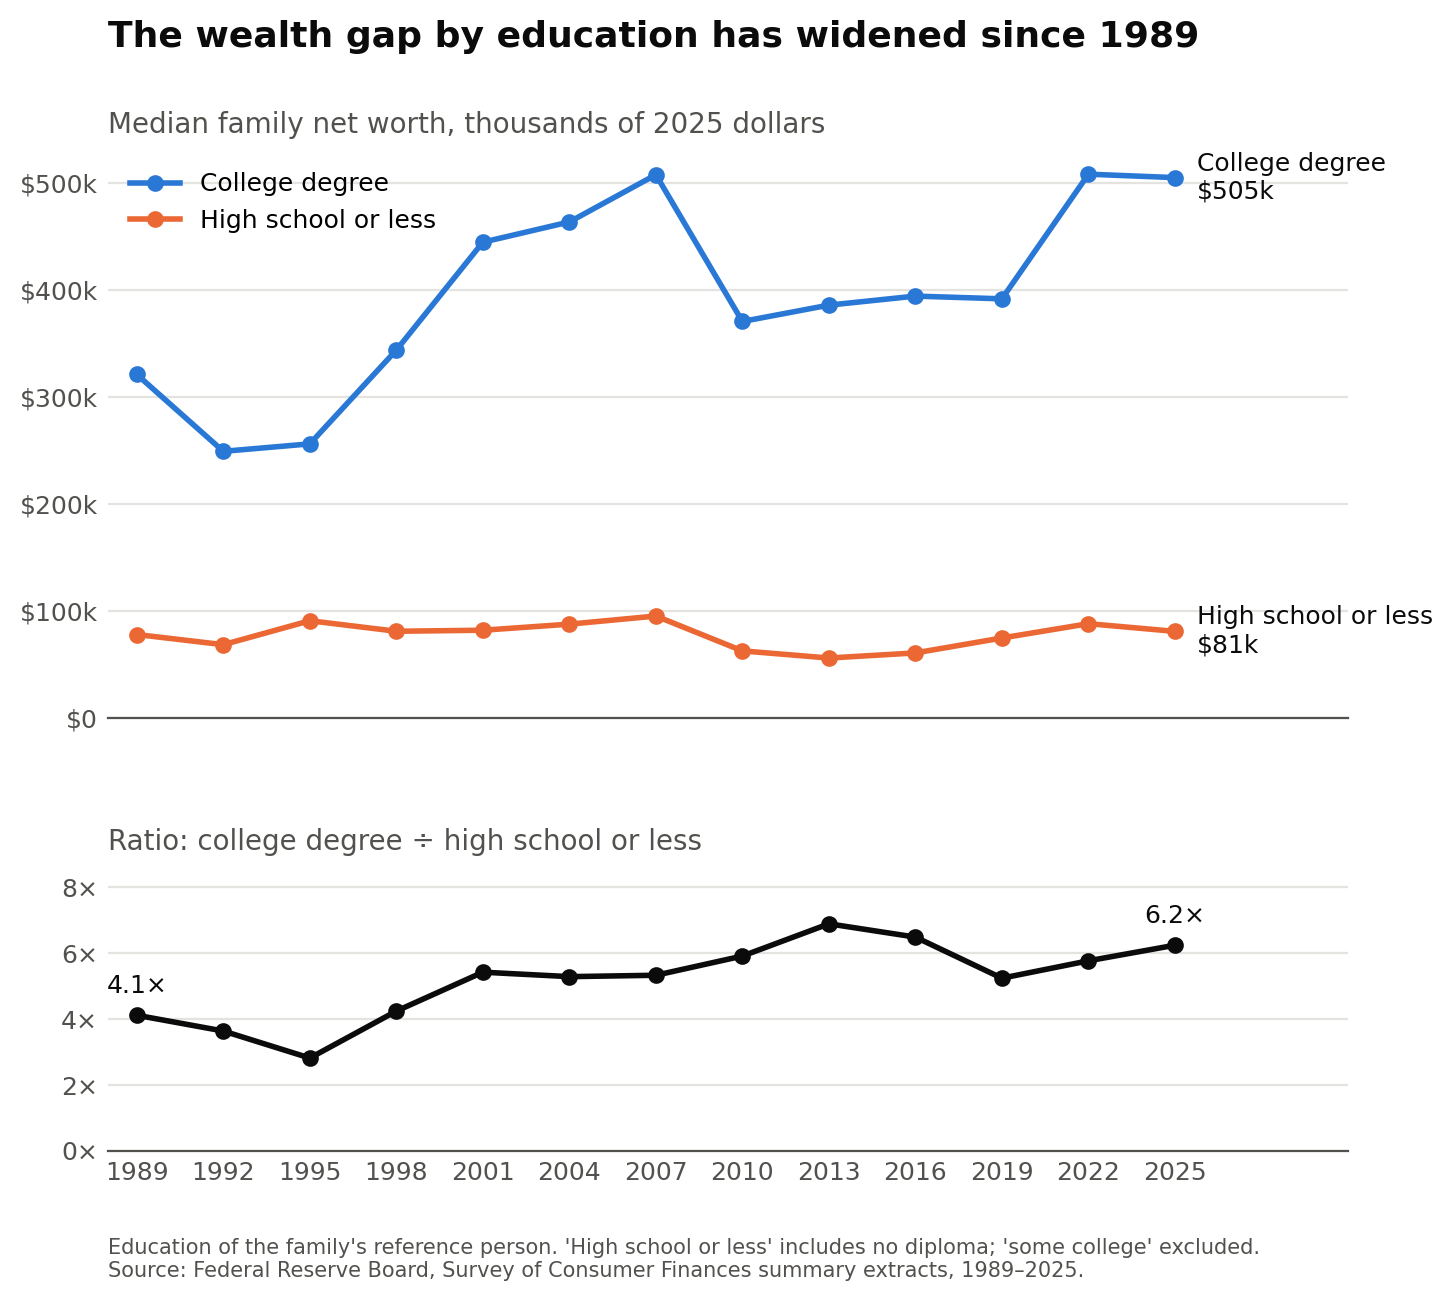
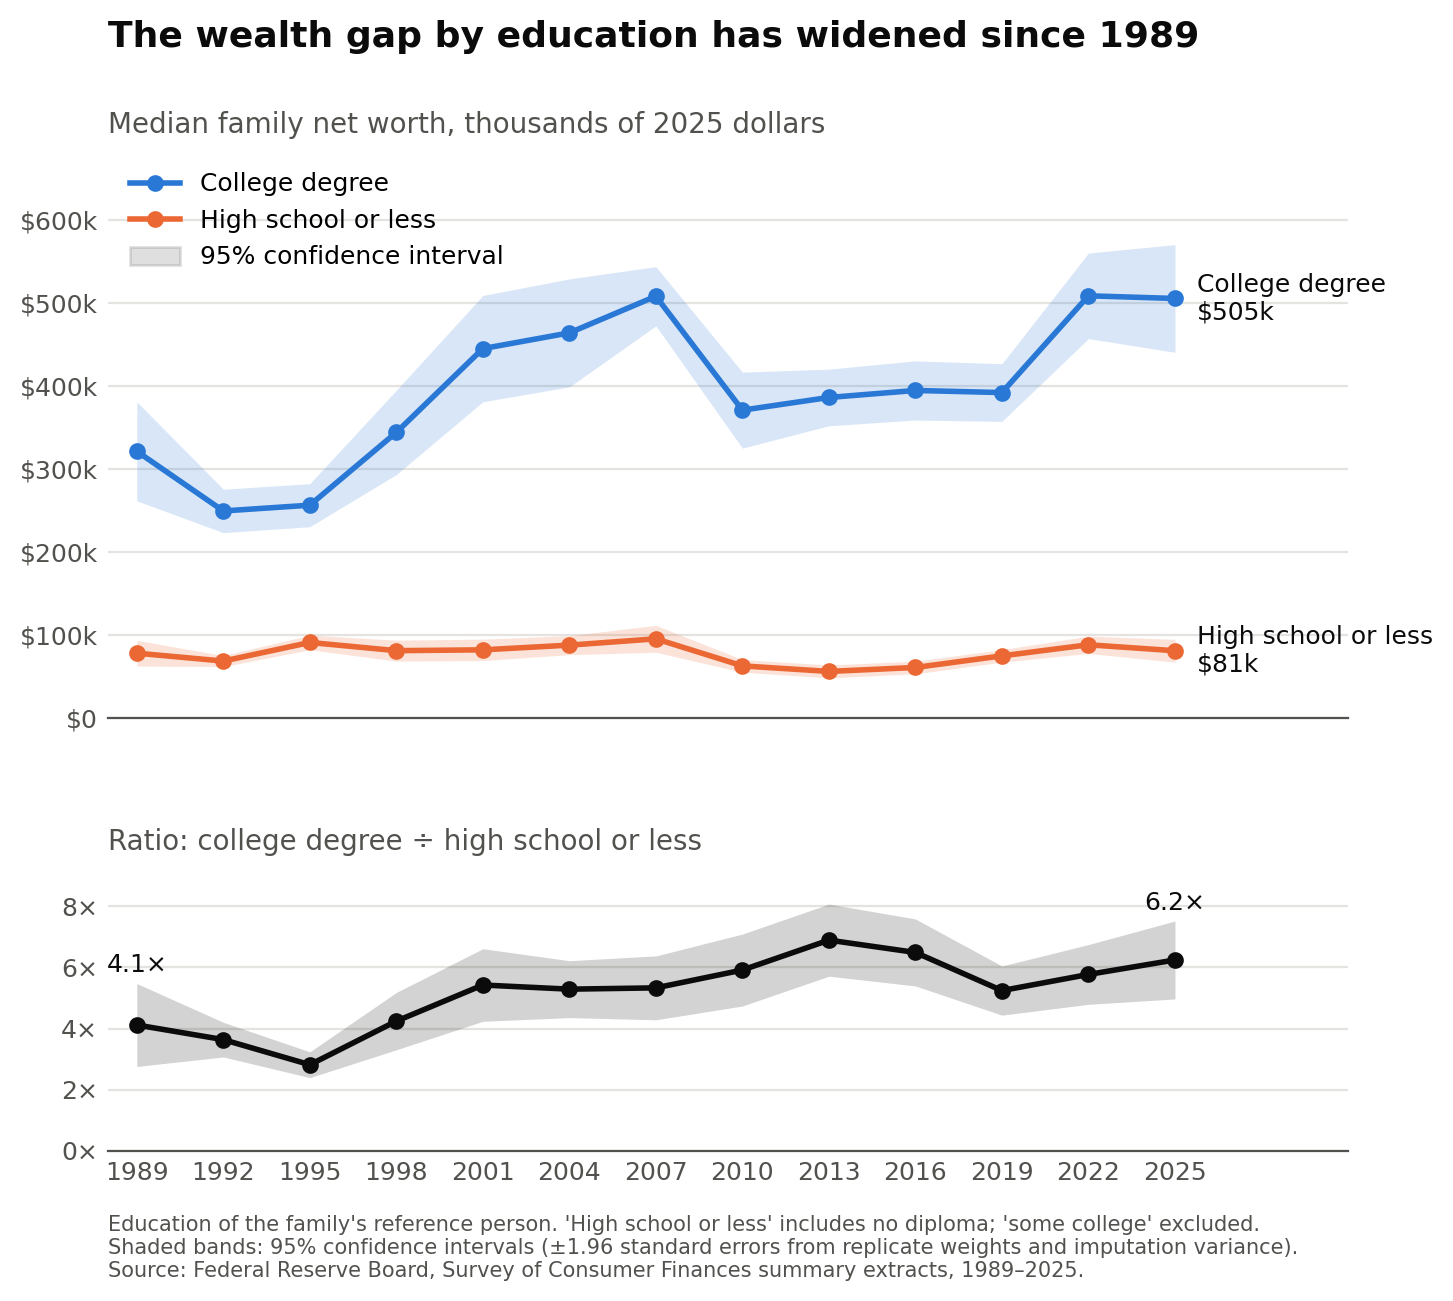
Add 95% confidence intervals using SCF replicate weights
scf_se.py ports the SCF codebook's MEANIT procedure: standard errors
combine imputation variance across the five implicates with sampling
variance from the 999 bootstrap replicate weights. get_data.py now
downloads each year's replicate-weight file and writes SEs for the group
medians and means plus a new networth_ratio.csv. plot.py shades 95%
intervals on both panels.

Point estimates are unchanged; 2022 and 2025 college-median SEs are
within 2% of the Fed's published standard errors.

diff --git a/get_data.py b/get_data.py
@@ -1,20 +1,23 @@
-"""Download the Survey of Consumer Finances summary extracts and compute median
-net worth by education of the family's reference person, 1989-2025.
+"""Download the Survey of Consumer Finances summary extracts and replicate
+weights, and compute median net worth by education of the family's reference
+person, with standard errors, 1989-2025.
 
-Source: Federal Reserve Board, SCF summary extract public data
-(https://www.federalreserve.gov/econres/scfindex.htm). As of the 2025 release,
-every year's extract is inflation-adjusted to 2025 dollars.
+Source: Federal Reserve Board, SCF summary extract public data and replicate
+weight files (https://www.federalreserve.gov/econres/scfindex.htm). As of the
+2025 release, every year's extract is inflation-adjusted to 2025 dollars.
 
 Groups (EDCL, harmonized across the 2016 change to the education question):
     college         EDCL == 4   bachelor's degree or higher
     hs_or_less      EDCL <= 2   no diploma, or high school diploma / GED
 "Some college" (EDCL == 3) is excluded.
 
-Each household appears five times (multiple imputation); WGT already divides
-the weight across implicates, so statistics pool all rows. This reproduces the
-medians in the Fed's historical Table 4.
+Each household appears five times (multiple imputation); point estimates pool
+all rows with WGT, which reproduces the medians in the Fed's historical Table 4.
+Standard errors combine imputation and sampling variance (see scf_se.py).
 
-Writes data/networth_by_education.csv.
+Downloads ~450 MB into data/raw/ on first run. Writes:
+    data/networth_by_education.csv   median/mean (+ SE) and share, by year and group
+    data/networth_ratio.csv          college / hs_or_less median ratio (+ SE), by year
 """
 
 import io
@@ -22,13 +25,15 @@ import urllib.request
 import zipfile
 from pathlib import Path
 
-import numpy as np
 import pandas as pd
 
+from scf_se import estimate_with_se, replicate_weights, weighted_mean, weighted_median
+
 YEARS = [1989, 1992, 1995, 1998, 2001, 2004, 2007, 2010, 2013, 2016, 2019, 2022, 2025]
-URL = "https://www.federalreserve.gov/econres/files/scfp{year}s.zip"
+BASE_URL = "https://www.federalreserve.gov/econres/files/"
 RAW_DIR = Path("data/raw")
-OUT = Path("data/networth_by_education.csv")
+OUT_GROUPS = Path("data/networth_by_education.csv")
+OUT_RATIO = Path("data/networth_ratio.csv")
 
 GROUPS = {
     "college": lambda edcl: edcl == 4,
@@ -36,54 +41,85 @@ GROUPS = {
 }
 
 
-def download(year):
-    path = RAW_DIR / f"scfp{year}s.zip"
+def extract_name(year):
+    return f"scfp{year}s.zip"
+
+
+def replicate_name(year):
+    # Surveys before 2001 use two-digit years in the replicate file name.
+    return f"scf{year if year >= 2001 else str(year)[2:]}rw1s.zip"
+
+
+def download(name):
+    path = RAW_DIR / name
     if not path.exists():
-        print(f"downloading {path.name}")
-        req = urllib.request.Request(URL.format(year=year), headers={"User-Agent": "Mozilla/5.0"})
+        print(f"downloading {name}")
+        req = urllib.request.Request(BASE_URL + name, headers={"User-Agent": "Mozilla/5.0"})
         with urllib.request.urlopen(req) as resp:
             path.write_bytes(resp.read())
     return path
 
 
-def read_extract(path):
+def read_dta(path):
     with zipfile.ZipFile(path) as zf:
         (name,) = [n for n in zf.namelist() if n.lower().endswith(".dta")]
         df = pd.read_stata(io.BytesIO(zf.read(name)), convert_categoricals=False)
     df.columns = df.columns.str.lower()
-    return df[["wgt", "edcl", "networth"]]
+    return df
 
 
-def weighted_median(x, w):
-    order = np.argsort(x)
-    x, w = x[order], w[order]
-    cum = np.cumsum(w)
-    return x[np.searchsorted(cum, cum[-1] / 2)]
+def read_extract(path):
+    df = read_dta(path)
+    # Case ids are X1/XX1 in 1989 and Y1/YY1 afterwards. Cast before
+    # multiplying: YY1 is stored as int16 and 10 * YY1 overflows.
+    case, household = ("y1", "yy1") if "y1" in df.columns else ("x1", "xx1")
+    df["case_id"] = df[case].astype("int64")
+    df["implicate"] = df.case_id - 10 * df[household].astype("int64")
+    return df[["case_id", "implicate", "wgt", "edcl", "networth"]]
 
 
-def summarize(df, year):
-    rows = []
+def stat(df, w):
+    """Median and mean net worth by group, and the ratio of medians."""
+    out = {}
     for group, select in GROUPS.items():
-        g = df[select(df.edcl)]
-        rows.append({
+        mask = select(df.edcl).to_numpy()
+        x = df.networth.to_numpy()[mask]
+        out[f"{group}_median"] = weighted_median(x, w[mask])
+        out[f"{group}_mean"] = weighted_mean(x, w[mask])
+    out["ratio"] = out["college_median"] / out["hs_or_less_median"]
+    return out
+
+
+def summarize(df, rep_weights, year):
+    est = estimate_with_se(df, stat, rep_weights)
+    groups = []
+    for group, select in GROUPS.items():
+        groups.append({
             "year": year,
             "group": group,
-            "median_networth": weighted_median(g.networth.to_numpy(), g.wgt.to_numpy()),
-            "mean_networth": np.average(g.networth, weights=g.wgt),
-            "share_of_families": g.wgt.sum() / df.wgt.sum(),
+            "median_networth": est[f"{group}_median"][0],
+            "median_se": est[f"{group}_median"][1],
+            "mean_networth": est[f"{group}_mean"][0],
+            "mean_se": est[f"{group}_mean"][1],
+            "share_of_families": df.wgt[select(df.edcl)].sum() / df.wgt.sum(),
         })
-    return rows
+    ratio = {"year": year, "ratio": est["ratio"][0], "ratio_se": est["ratio"][1]}
+    return groups, ratio
 
 
 def main():
     RAW_DIR.mkdir(parents=True, exist_ok=True)
-    rows = []
+    groups, ratios = [], []
     for year in YEARS:
-        rows += summarize(read_extract(download(year)), year)
-    out = pd.DataFrame(rows)
-    out.to_csv(OUT, index=False, float_format="%.4f")
-    print(f"wrote {OUT}")
-    print(out.pivot(index="year", columns="group", values="median_networth").round(-2))
+        df = read_extract(download(extract_name(year)))
+        rep = replicate_weights(read_dta(download(replicate_name(year))))
+        g, r = summarize(df, rep, year)
+        groups += g
+        ratios.append(r)
+        print(f"{year}: ratio {r['ratio']:.2f} (SE {r['ratio_se']:.2f})")
+    pd.DataFrame(groups).to_csv(OUT_GROUPS, index=False, float_format="%.4f")
+    pd.DataFrame(ratios).to_csv(OUT_RATIO, index=False, float_format="%.4f")
+    print(f"wrote {OUT_GROUPS} and {OUT_RATIO}")
 
 
 if __name__ == "__main__":

diff --git a/plot.py b/plot.py
@@ -1,5 +1,6 @@
 """Plot median net worth of college-degree vs. high-school-or-less families,
-and the ratio between them, from data/networth_by_education.csv.
+and the ratio between them, with 95% confidence intervals, from
+data/networth_by_education.csv and data/networth_ratio.csv.
 
 Writes figures/networth_gap.png.
 """
@@ -8,14 +9,18 @@ from pathlib import Path
 
 import matplotlib.pyplot as plt
 import pandas as pd
+from matplotlib.patches import Patch
 from matplotlib.ticker import FuncFormatter
 
 DATA = Path("data/networth_by_education.csv")
+RATIO = Path("data/networth_ratio.csv")
 OUT = Path("figures/networth_gap.png")
 
 INK = "#0b0b0b"
 INK_2 = "#52514e"
 GRID = "#e4e3df"
+BAND_ALPHA = 0.18
+Z = 1.96  # 95% interval
 SERIES = {
     "college": ("College degree", "#2a78d6"),
     "hs_or_less": ("High school or less", "#eb6834"),
@@ -34,7 +39,9 @@ def style(ax):
 def main():
     df = pd.read_csv(DATA)
     wide = df.pivot(index="year", columns="group", values="median_networth") / 1e3
-    ratio = wide["college"] / wide["hs_or_less"]
+    se = df.pivot(index="year", columns="group", values="median_se") / 1e3
+    r = pd.read_csv(RATIO).set_index("year")
+    ratio, ratio_se = r["ratio"], r["ratio_se"]
     years = wide.index.to_numpy()
 
     fig, (top, bot) = plt.subplots(
@@ -43,21 +50,27 @@ def main():
 
     for group, (label, color) in SERIES.items():
         y = wide[group]
+        top.fill_between(years, y - Z * se[group], y + Z * se[group], color=color,
+                         alpha=BAND_ALPHA, linewidth=0)
         top.plot(years, y, color=color, linewidth=2, marker="o", markersize=5, label=label)
         top.annotate(f"{label}\n${y.iloc[-1]:,.0f}k", (years[-1], y.iloc[-1]), xytext=(8, 0),
                      textcoords="offset points", va="center", fontsize=9, color=INK)
-    top.set_ylim(0, None)
+    top.set_ylim(0, (wide + Z * se).max().max() * 1.2)  # headroom for the legend
     top.yaxis.set_major_formatter(FuncFormatter(lambda v, _: f"${v:,.0f}k" if v else "$0"))
     top.set_title("Median family net worth, thousands of 2025 dollars",
                   loc="left", fontsize=10, color=INK_2)
-    top.legend(loc="upper left", frameon=False, fontsize=9)
+    handles, _ = top.get_legend_handles_labels()
+    handles.append(Patch(color=INK_2, alpha=BAND_ALPHA, label="95% confidence interval"))
+    top.legend(handles=handles, loc="upper left", frameon=False, fontsize=9)
     style(top)
 
+    upper = ratio + Z * ratio_se
+    bot.fill_between(years, ratio - Z * ratio_se, upper, color=INK, alpha=BAND_ALPHA, linewidth=0)
     bot.plot(years, ratio, color=INK, linewidth=2, marker="o", markersize=5)
     for i in (0, -1):
-        bot.annotate(f"{ratio.iloc[i]:.1f}×", (years[i], ratio.iloc[i]), xytext=(0, 8),
+        bot.annotate(f"{ratio.iloc[i]:.1f}×", (years[i], upper.iloc[i]), xytext=(0, 4),
                      textcoords="offset points", ha="center", fontsize=9, color=INK)
-    bot.set_ylim(0, ratio.max() * 1.25)
+    bot.set_ylim(0, upper.max() * 1.15)
     bot.yaxis.set_major_formatter(FuncFormatter(lambda v, _: f"{v:.0f}×"))
     bot.set_title("Ratio: college degree ÷ high school or less", loc="left", fontsize=10, color=INK_2)
     bot.set_xticks(years)
@@ -69,7 +82,9 @@ def main():
                  x=0.125, ha="left", fontsize=13, color=INK, fontweight="bold")
     fig.text(0.125, 0.01,
              "Education of the family's reference person. 'High school or less' includes no diploma; "
-             "'some college' excluded.\nSource: Federal Reserve Board, Survey of Consumer Finances "
+             "'some college' excluded.\n"
+             "Shaded bands: 95% confidence intervals (±1.96 standard errors from replicate weights "
+             "and imputation variance).\nSource: Federal Reserve Board, Survey of Consumer Finances "
              "summary extracts, 1989–2025.",
              fontsize=7.5, color=INK_2, va="bottom")
 

diff --git a/scf_se.py b/scf_se.py
@@ -1,0 +1,83 @@
+"""Standard errors for SCF statistics, following the MEANIT macro in the SCF
+codebook (https://www.federalreserve.gov/econres/files/codebk2025.txt).
+
+    SE = sqrt((6/5) * imputation variance + sampling variance)
+
+- Point estimate: computed on all five implicates pooled with WGT, which is
+  how the Fed's published tables are computed.
+- Imputation variance: variance (n-1) of the estimate across the five
+  implicates, each computed separately with WGT.
+- Sampling variance: variance (n-1) of the estimate across the 999 bootstrap
+  replicate weights, computed on the first implicate only. Replicate weights
+  are WT1Bi * MMi (weight times multiplicity), with missing values set to 0.
+
+A statistic is any function `stat(df, w) -> dict[str, array]` where `w` is an
+(n, k) weight matrix and each returned array has length k. Writing statistics
+this way lets one call evaluate all 999 replicates at once.
+"""
+
+import numpy as np
+import pandas as pd
+
+N_REPLICATES = 999
+
+
+def weighted_median(x, w):
+    """Weighted median of x for each column of w (n,) or (n, k).
+
+    Takes the first value where the cumulative weight share reaches 1/2,
+    as MEANIT does.
+    """
+    x = np.asarray(x)
+    w = np.asarray(w, dtype=float)
+    squeeze = w.ndim == 1
+    if squeeze:
+        w = w[:, None]
+    order = np.argsort(x, kind="stable")
+    cum = np.cumsum(w[order], axis=0)
+    med = x[order][np.argmax(cum >= cum[-1] / 2, axis=0)]
+    return med[0] if squeeze else med
+
+
+def weighted_mean(x, w):
+    """Weighted mean of x for each column of w (n, k)."""
+    w = np.asarray(w, dtype=float)
+    return (np.asarray(x)[:, None] * w).sum(0) / w.sum(0)
+
+
+def replicate_weights(rw):
+    """Replicate-weight matrix indexed by case id (the implicate-1 Y1/X1).
+
+    `rw` is the replicate weight file with lower-case column names.
+    """
+    id_col = "y1" if "y1" in rw.columns else "x1"
+    wt = rw[[f"wt1b{i}" for i in range(1, N_REPLICATES + 1)]].fillna(0).clip(lower=0).to_numpy()
+    mm = rw[[f"mm{i}" for i in range(1, N_REPLICATES + 1)]].fillna(0).clip(lower=0).to_numpy()
+    return pd.DataFrame(wt * mm, index=rw[id_col].astype("int64").to_numpy())
+
+
+def estimate_with_se(df, stat, rep_weights):
+    """Point estimates and standard errors for every output of `stat`.
+
+    `df` holds all implicates with columns `wgt`, `implicate` (1-5) and
+    `case_id` (Y1/X1), plus whatever `stat` uses.
+    Returns {name: (estimate, se)}.
+    """
+    def run(d, w):
+        return {k: np.atleast_1d(v) for k, v in stat(d, w).items()}
+
+    pooled = run(df, df.wgt.to_numpy()[:, None])
+
+    by_implicate = [run(g, g.wgt.to_numpy()[:, None]) for _, g in df.groupby("implicate")]
+    if len(by_implicate) != 5:
+        raise ValueError(f"expected 5 implicates, found {len(by_implicate)}")
+
+    first = df[df.implicate == 1]
+    replicates = run(first, rep_weights.loc[first.case_id].to_numpy())
+
+    out = {}
+    for name, value in pooled.items():
+        imp_var = np.var([r[name][0] for r in by_implicate], ddof=1)
+        samp_var = np.var(replicates[name], ddof=1)
+        out[name] = (value[0], np.sqrt(6 / 5 * imp_var + samp_var))
+    return out
